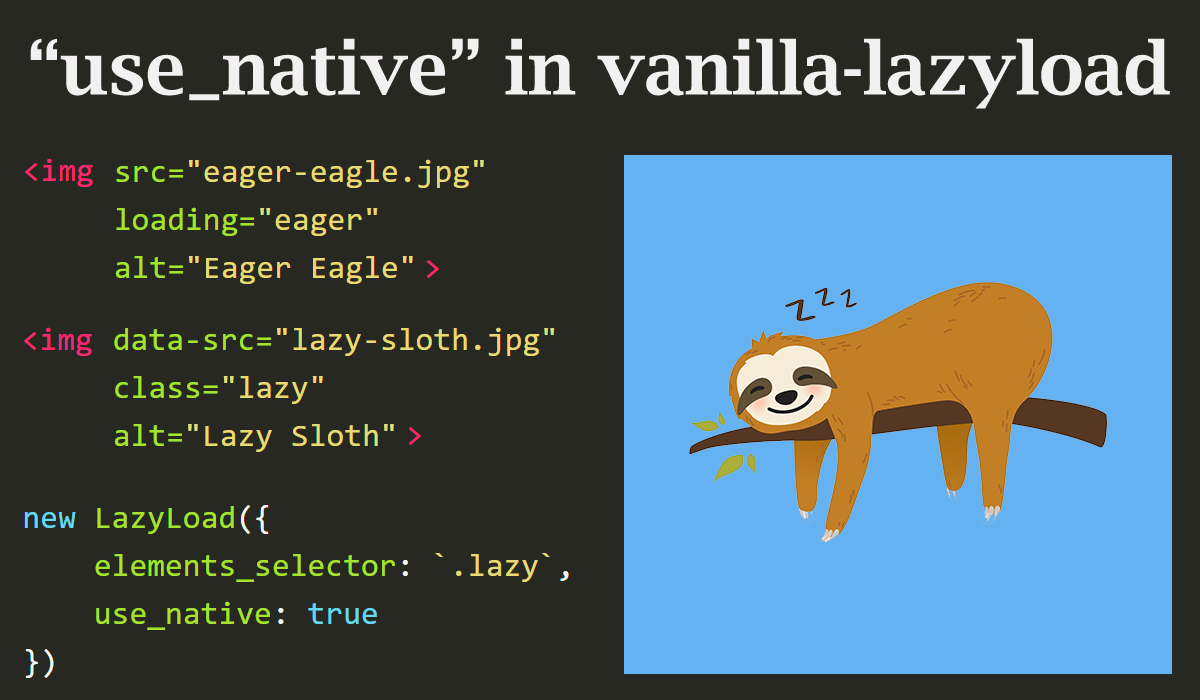
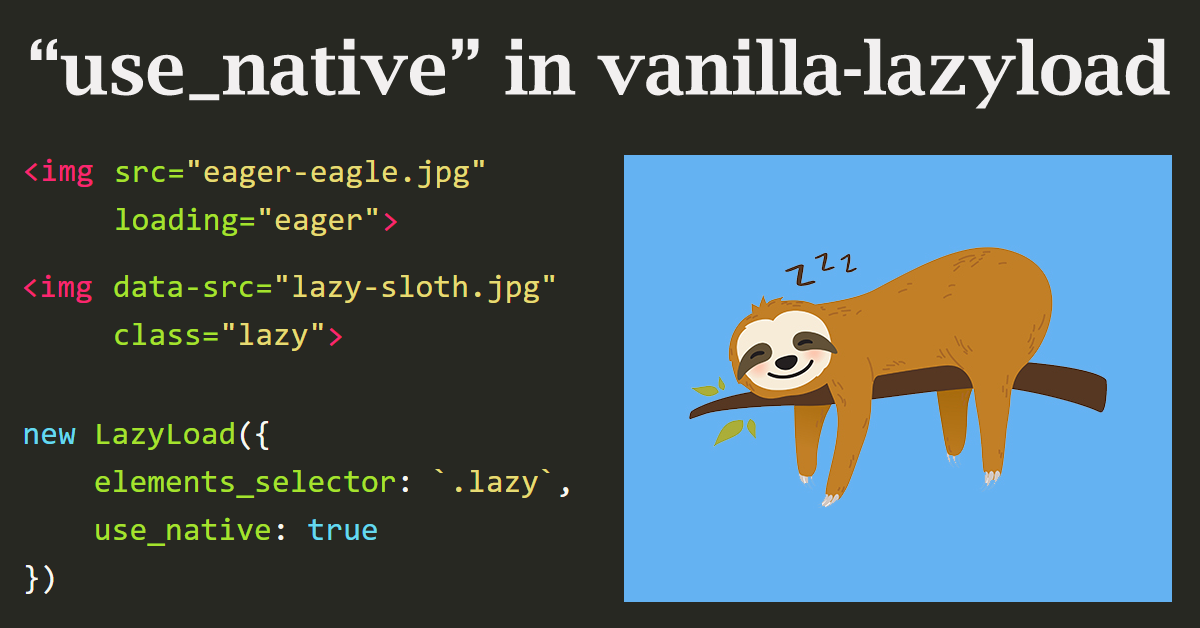
Respected facebook ratio

diff --git a/_includes/head.html b/_includes/head.html
@@ -22,7 +22,7 @@
   <meta property="og:image" content="{{ site.url }}/assets/post-images/{{ page.image }}">
   <meta name="twitter:image" content="{{ site.url }}/assets/post-images/{{ page.image }}">
   <meta property="og:image:width" content="1200">
-  <meta property="og:image:height" content="700">
+  <meta property="og:image:height" content="628">
   {% else %}
   <meta property="og:image" content="https://www.gravatar.com/avatar/a175bc6ffa39da4513620869709c0fcb?s=600">
   <meta property="og:image:width" content="600">
